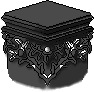
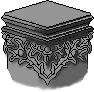
Login: new capital art, dimmed on the dark theme only; chat: drag files to attach
The capital sprite is replaced by the new render (same model, cropped to the same
94x92 so it shows at the same size). Its 65% dimming now applies to the dark theme
only (--art-capital-a); the light theme shows it at full strength. Files dragged
onto the chat attach like the clip button and pasting, with a dashed frame while
they are over it.

diff --git a/src/web/static/style.css b/src/web/static/style.css
@@ -22,6 +22,7 @@
   --art-plinth: url("/static/art/plinth.svg");
   --art-render: pixelated;                      /* set to pixelated when the files are MagicaVoxel PNGs */
   --orn-a: .16; --orn-arch-a: .45;
+  --art-capital-a: .65;                         /* the capital is dimmed on the dark theme only (see the light theme) */
 }
 :root {
   color-scheme: dark;
@@ -31,7 +32,7 @@
   --ok: #7fc79a; --shade: #ededed26; --backdrop: #000a; --shadow: 0 6px 24px #0007, 0 1px 2px #0008;
 }
 :root[data-theme="light"] {
-  color-scheme: light; --orn-a: .1;
+  color-scheme: light; --orn-a: .1; --art-capital-a: 1;
   --bg: #fafaf8; --panel: #ffffff; --raised: #ebebe6; --line: #dcdcd6; --line-strong: #8a8a84; --side: #f4f4f1; --code-bg: #f3f3ef;
   --text: #161616; --muted: #4a4a45; --accent: #b0205e; --accent-strong: #8d1a4b; --on-accent: #ffffff;
   --accent-soft: #f7e9ef; --danger: #b42318; --warn: #7a5a00; --warn-bg: #fbf1d3; --warn-line: #d3b24f;
@@ -39,7 +40,7 @@
 }
 @media (prefers-color-scheme: light) {
   :root:not([data-theme]) {
-    color-scheme: light; --orn-a: .1;
+    color-scheme: light; --orn-a: .1; --art-capital-a: 1;
     --bg: #fafaf8; --panel: #ffffff; --raised: #ebebe6; --line: #dcdcd6; --line-strong: #8a8a84; --side: #f4f4f1; --code-bg: #f3f3ef;
     --text: #161616; --muted: #4a4a45; --accent: #b0205e; --accent-strong: #8d1a4b; --on-accent: #ffffff;
     --accent-soft: #f7e9ef; --danger: #b42318; --warn: #7a5a00; --warn-bg: #fbf1d3; --warn-line: #d3b24f;
@@ -88,7 +89,7 @@ button.link { background: none; border: none; color: var(--muted); padding: 0; }
 .login-arch { position: absolute; inset: 0; z-index: -1; pointer-events: none; background: var(--art-login-arch) center / 100% 100% no-repeat; image-rendering: var(--art-render); opacity: var(--orn-arch-a); }   /* the side strokes run straight to the bottom edge of the box: the arch is closed visually, no base line */
 .login-art { display: flex; flex-direction: column; align-items: center; gap: 0; margin-bottom: 8px; pointer-events: none; }
 .art-capital { --u: 1px; position: relative; margin-top: 48px; width: calc(94 * var(--u)); height: calc(92 * var(--u)); flex: none; }
-.art-capital::before { content: ""; position: absolute; inset: 0; background: var(--art-capital) center / 100% 100% no-repeat; image-rendering: var(--art-render); opacity: .65; }   /* the sprite is drawn at 65% so the logo above it stays at full strength */   /* hand-drawn 94x92 sprite shown at an integer scale (1 art px = --u) */
+.art-capital::before { content: ""; position: absolute; inset: 0; background: var(--art-capital) center / 100% 100% no-repeat; image-rendering: var(--art-render); opacity: var(--art-capital-a); }   /* dimmed to 65% on the dark theme so the logo above it stays at full strength; full strength on the light one */   /* hand-drawn 94x92 sprite shown at an integer scale (1 art px = --u) */
 .art-capital .brand-logo { position: absolute; left: 50%; top: -58px; width: 64px; height: 54px; margin-left: -32px; image-rendering: var(--art-render); }   /* the 32x27 logo at 2x (pixelated), levitating above the capital: its bottom edge hovers just above the centre of the top face */
 #login-form { display: flex; flex-direction: column; gap: 10px; width: 100%; text-align: center; }
 #login-form h1 { margin: 0; font: 350 var(--s4)/1 var(--serif); letter-spacing: .22em; text-indent: .22em; font-variation-settings: "SOFT" 40, "WONK" 0; }
@@ -1104,3 +1105,7 @@ html.resizing-sidebar #app { transition: none; }
 .attachment-pdf { gap: 6px; padding: 5px 12px 5px 6px; font-size: 1em; color: var(--text); text-decoration: none; cursor: pointer; }
 .attachment-pdf::before { content: "PDF"; padding: 1px 5px; border-radius: 4px; background: var(--accent); color: var(--bg); font-size: .75em; font-weight: 700; letter-spacing: .04em; }
 .attachment-pdf:hover { border-color: var(--accent); }
+
+/* files dragged over the chat: a dashed frame inside the chat area (it does not move the layout) */
+#chat-view { position: relative; }
+#chat-view.drop-target::after { content: attr(data-drop-label); position: absolute; inset: 8px; z-index: 5; pointer-events: none; display: flex; align-items: center; justify-content: center; border: 2px dashed var(--accent); border-radius: var(--radius); background: color-mix(in srgb, var(--bg) 82%, transparent); color: var(--accent); font-weight: 600; }

diff --git a/src/web/static/app.js b/src/web/static/app.js
@@ -669,6 +669,7 @@ function translateInterface() {
   renderAgentAvatarField();
   refreshRows();
   $("dream-model").placeholder = tr("Your chat model");
+  $("chat-view").dataset.dropLabel = tr("Drop files to attach them");
   $("dream-delegate-model").placeholder = tr("The dream's model");
   $("agent-model").placeholder = tr("Your default model");
   $("agent-delegation-model").placeholder = tr("The model of the chat");
@@ -6877,7 +6878,7 @@ $("mic").addEventListener("click", async () => {
     addMessage("assistant").error(err?.name === "NotAllowedError" ? new Error(tr("Microphone access was denied")) : err);
   }
 });
-// Adds files to the message being written (the clip button and pasting share this): same type and size checks.
+// Adds files to the message being written (the clip button, pasting and dropping share this): same type and size checks.
 async function addFiles(files) {
   try {
     const valid = files.map((file) => {
@@ -6924,6 +6925,41 @@ $("input").addEventListener("paste", (event) => {
   if ($("attach").disabled) return;  // no chat open, or the chat is switching models
   addFiles(files);
 });
+
+// Dragging files onto the chat attaches them, like the clip button and pasting. The chat area shows a frame
+// while files are over it; text or links dragged around the page are left to the browser.
+{
+  const zone = $("chat-view");
+  let depth = 0;  // dragenter/dragleave fire for every child: count them so the frame does not flicker
+  const carriesFiles = (event) => [...(event.dataTransfer?.types ?? [])].includes("Files");
+  const clear = () => { depth = 0; zone.classList.remove("drop-target"); };
+  zone.addEventListener("dragenter", (event) => {
+    if (!carriesFiles(event)) return;
+    event.preventDefault();
+    depth += 1;
+    if (!$("attach").disabled) zone.classList.add("drop-target");
+  });
+  zone.addEventListener("dragover", (event) => {
+    if (!carriesFiles(event)) return;
+    event.preventDefault();  // without it the browser opens the file instead of dropping it here
+    event.dataTransfer.dropEffect = $("attach").disabled ? "none" : "copy";
+  });
+  zone.addEventListener("dragleave", (event) => {
+    if (!carriesFiles(event)) return;
+    depth = Math.max(0, depth - 1);
+    if (!depth) zone.classList.remove("drop-target");
+  });
+  zone.addEventListener("drop", (event) => {
+    if (!carriesFiles(event)) return;
+    event.preventDefault();
+    clear();
+    if ($("attach").disabled) return;  // no chat open, or the chat is switching models
+    const files = [...event.dataTransfer.files];
+    if (files.length) addFiles(files);
+    $("input").focus();
+  });
+  window.addEventListener("dragend", clear);
+}
 
 $("composer").addEventListener("submit", async (e) => {
   e.preventDefault();

diff --git a/src/utils/i18n.py b/src/utils/i18n.py
@@ -251,6 +251,7 @@ _SPANISH = {
     "This removes the {count} messages after it.": "Esto elimina los {count} mensajes posteriores.",
     "Interrupted by a new message": "Interrumpido por un mensaje nuevo",
     "Stopped by you": "Detenido por ti",
+    "Drop files to attach them": "Suelta los archivos para adjuntarlos",
     "Interrupted": "Interrumpido",
     "Generating…": "Generando…",
     "Record a voice message": "Grabar un mensaje de voz",
